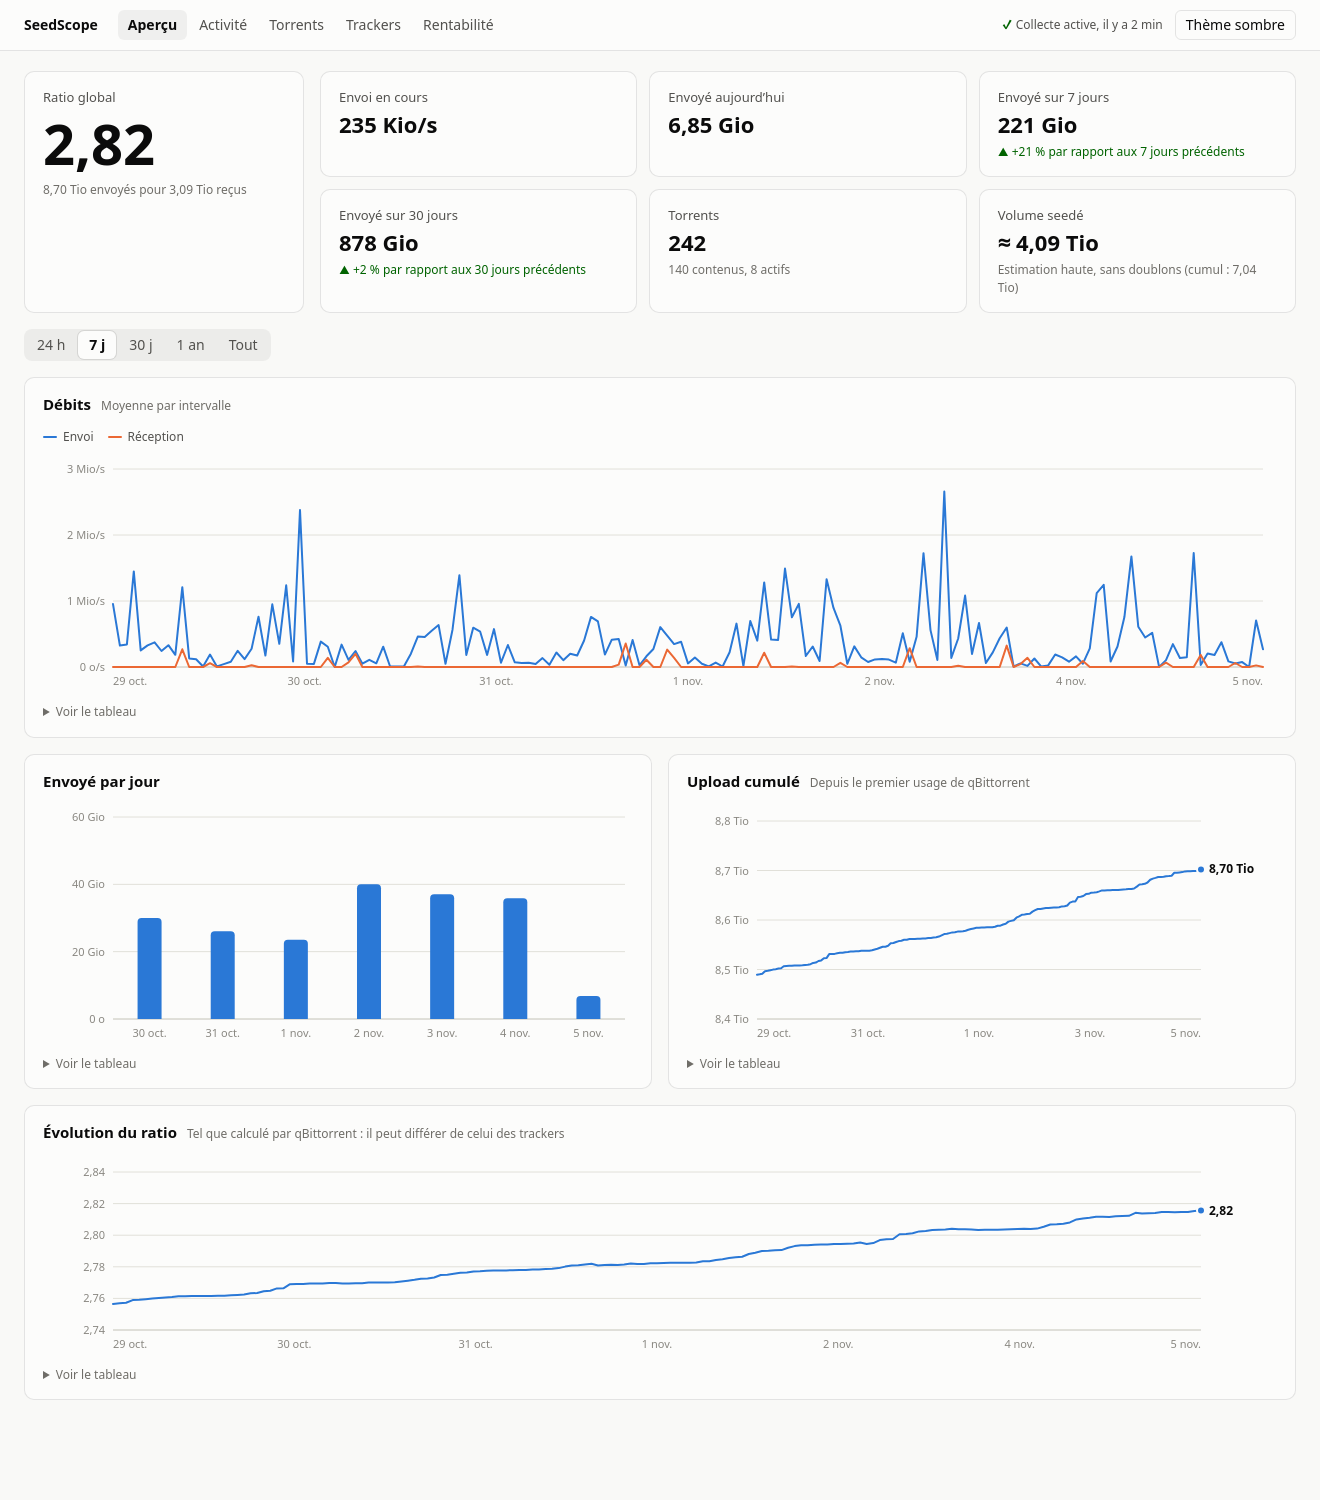
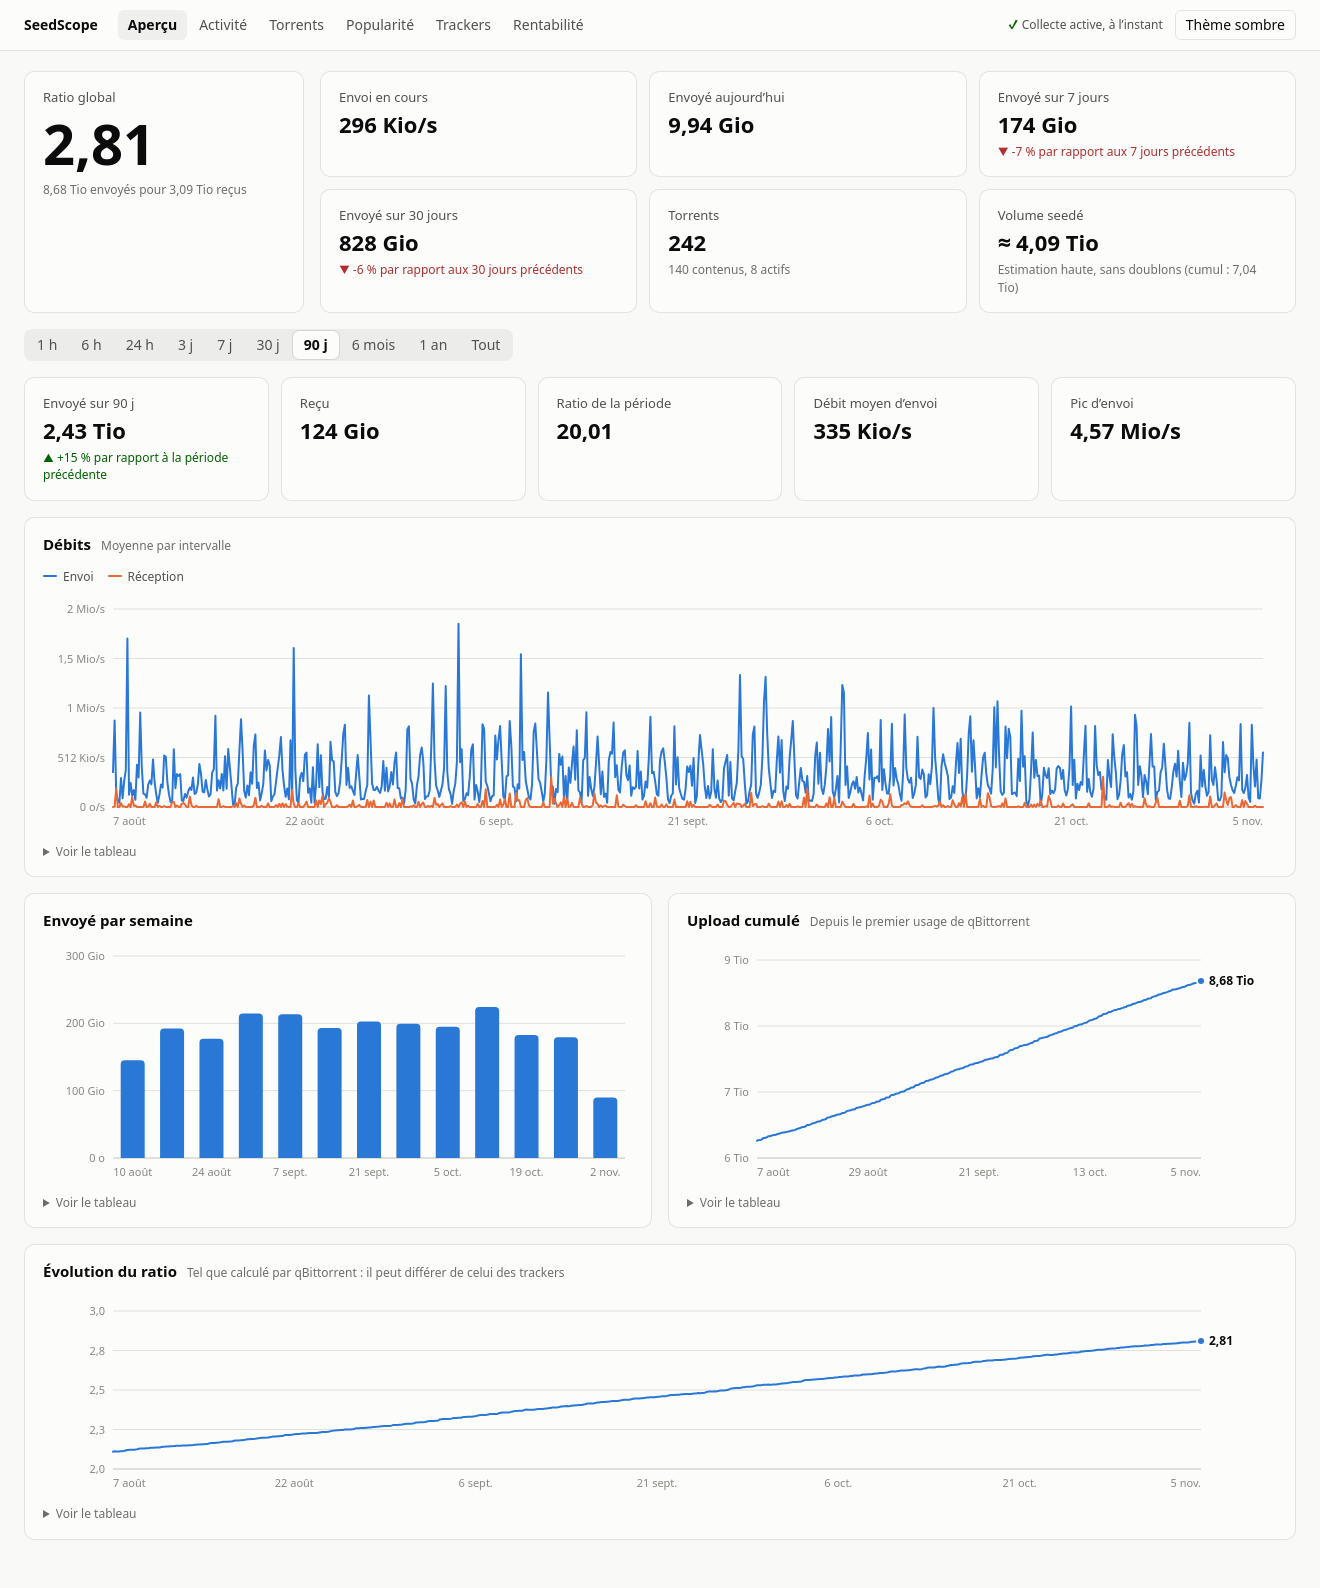
Document ranges, popularity and retention

diff --git a/README.md b/README.md
@@ -8,10 +8,12 @@ aucune dépendance Python, environ 20 Mio de RAM.
 
 ## Fonctionnalités
 
-- **Aperçu** : ratio global, envoi du jour, de la semaine et du mois comparés à la période précédente,
-  débits, volume envoyé, upload cumulé et évolution du ratio, de 24 h à tout l'historique.
+- **Aperçu** : ratio global, débits, volume envoyé, upload cumulé et évolution du ratio, avec les totaux,
+  le débit moyen et le pic de la période. Dix durées : 1 h, 6 h, 24 h, 3 j, 7 j, 30 j, 90 j, 6 mois, 1 an, tout.
 - **Activité** : torrents en cours de transfert, calendrier annuel de l'upload, heures les plus actives.
-- **Torrents** : tableau triable et filtrable, torrents supprimés inclus, avec une page par torrent.
+- **Torrents** : tableau triable et filtrable avec mini-courbe sur 30 jours, torrents supprimés inclus.
+- **Page par torrent** : courbes d'upload, de ratio, de popularité, de seeders et de leechers.
+- **Popularité** : torrents les plus populaires, les plus demandés et les moins seedés, moyenne par tracker.
 - **Trackers et catégories** : upload dans le temps, part de chacun, volume et ratio.
 - **Rentabilité** : upload rapporté à l'espace occupé, et poids morts à partir d'un seuil d'inactivité.
 
@@ -41,11 +43,13 @@ L'interface répond sur `http://<ip-du-serveur>:3310/`.
 | `SEEDSCOPE_TRACKER_ALIASES` | Regroupe des hôtes : `hote1=Nom,hote2=Nom` | vide |
 | `SEEDSCOPE_GLOBAL_INTERVAL` | Collecte des compteurs globaux, en secondes | `60` |
 | `SEEDSCOPE_TORRENT_INTERVAL` | Collecte par torrent, en secondes | `300` |
-| `SEEDSCOPE_MINUTE_RETENTION_DAYS` | Conservation des mesures à la minute | `30` |
-| `SEEDSCOPE_HOURLY_RETENTION_DAYS` | Conservation de l'horaire par torrent | `90` |
+| `SEEDSCOPE_MINUTE_RETENTION_DAYS` | Conservation des mesures globales à la minute | `90` |
+| `SEEDSCOPE_HOURLY_RETENTION_DAYS` | Conservation de l'upload horaire par torrent | `365` |
+| `SEEDSCOPE_SAMPLE_FINE_RETENTION_DAYS` | Courbes par torrent, mesures toutes les 5 min | `30` |
+| `SEEDSCOPE_SAMPLE_HOURLY_RETENTION_DAYS` | Courbes par torrent, mesures horaires | `180` |
 | `TZ` | Fuseau utilisé pour découper les jours | `Europe/Paris` |
 
-Les trois dernières variables `SEEDSCOPE_*` ne sont pas transmises par `compose.yaml` : ajoutez-les à sa
+Les variables d'intervalle et de conservation ne sont pas transmises par `compose.yaml` : ajoutez-les à sa
 section `environment` pour les modifier.
 
 ### Reprendre l'historique de Prometheus
@@ -78,6 +82,10 @@ docker run --rm --network <reseau-de-prometheus> -v seedscope_seedscope-data:/da
 
 - **Historique** : les courbes partent du début de la collecte. Avant cela, seuls les totaux de qBittorrent
   existent : ils servent de point de départ sans créer de faux pic.
+- **Popularité** : c'est la valeur de qBittorrent, soit le ratio divisé par le nombre de mois actifs. Elle mesure ce
+  qui a tourné pour vous, pas la demande actuelle, que les leechers annoncés reflètent mieux.
+- **Courbes par torrent** : elles partent de la version 0.2. Une mesure est prise quand quelque chose change, et au
+  moins une fois par heure. Les vues longues se contentent des mesures horaires, puis quotidiennes.
 - **Ratio** : c'est celui de qBittorrent. Il peut différer de celui affiché par les trackers.
 - **Volume seedé** : estimation haute. Les contenus sont regroupés par taille exacte, ce qui ne détecte pas un
   épisode partageant ses fichiers avec un pack de saison.
@@ -108,10 +116,11 @@ docker run --rm --network <reseau-de-prometheus> -v seedscope_seedscope-data:/da
 
 | Table | Contenu | Conservation |
 |---|---|---|
-| `global_minute` | Débits et compteurs globaux | 30 jours |
+| `global_minute` | Débits et compteurs globaux | 90 jours |
 | `global_hourly` | Agrégats globaux par heure | Illimitée |
-| `torrent_hourly` | Upload et download par torrent et par heure | 90 jours |
+| `torrent_hourly` | Upload et download par torrent et par heure | 1 an |
 | `torrent_daily` | Upload et download par torrent et par jour | Illimitée |
+| `torrent_samples` | Upload, ratio, popularité et pairs par torrent | 30 jours à 5 min, 6 mois à l'heure, puis un point par jour |
 | `torrents` | Dernier état de chaque torrent, supprimés inclus | Illimitée |
 
 ## Développement
